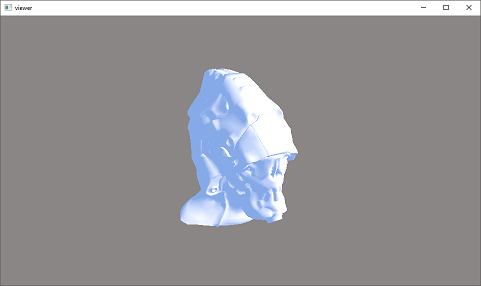
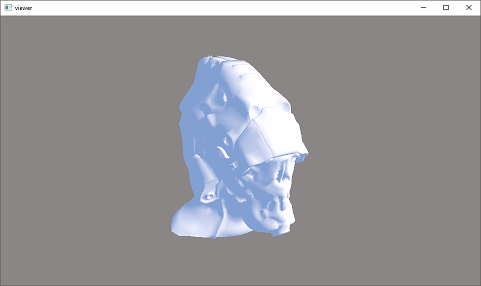
Fix shader normal problem and update a few more things

Changed region(s): [[0.343, 0.1958, 0.6549, 0.8392]]

diff --git a/examples/viewer/README.md b/examples/viewer/README.md
@@ -7,6 +7,11 @@ An application for demonstrating the practical usage of [fx-gltf](https://github
 
 ![screenshot](screenshots/screenshot00.png)
 ![screenshot](screenshots/screenshot01.png)
+![screenshot](screenshots/screenshot02.png)
+![screenshot](screenshots/screenshot03.png)
+
+## Usage
+```viewer.exe [--width: width] [--height: height] model```
 
 ## Design
 
@@ -47,4 +52,5 @@ SOFTWARE.
 
 This software would not be possible without the help of these great resources. Thanks a lot!
 
-* [d3dx12.h](https://github.com/Microsoft/DirectX-Graphics-Samples/tree/master/Libraries/D3DX12)
+* [d3dx12.h](https://github.com/Microsoft/DirectX-Graphics-Samples/tree/master/Libraries/D3DX12) containing helper structures and functions for D3D12
+* [Clara](https://github.com/catchorg/Clara) for command-line parsing
